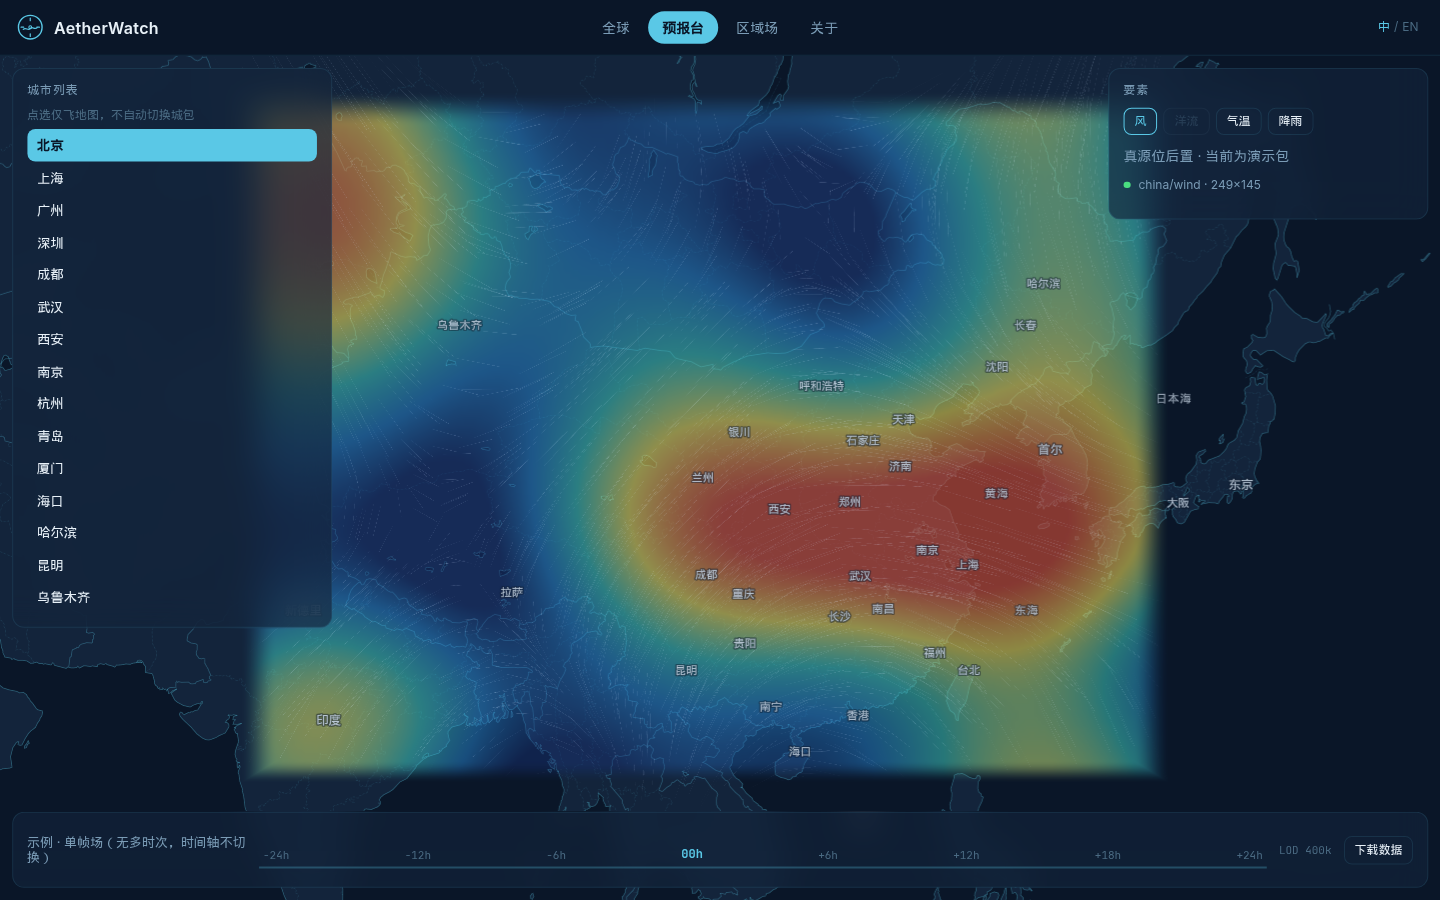
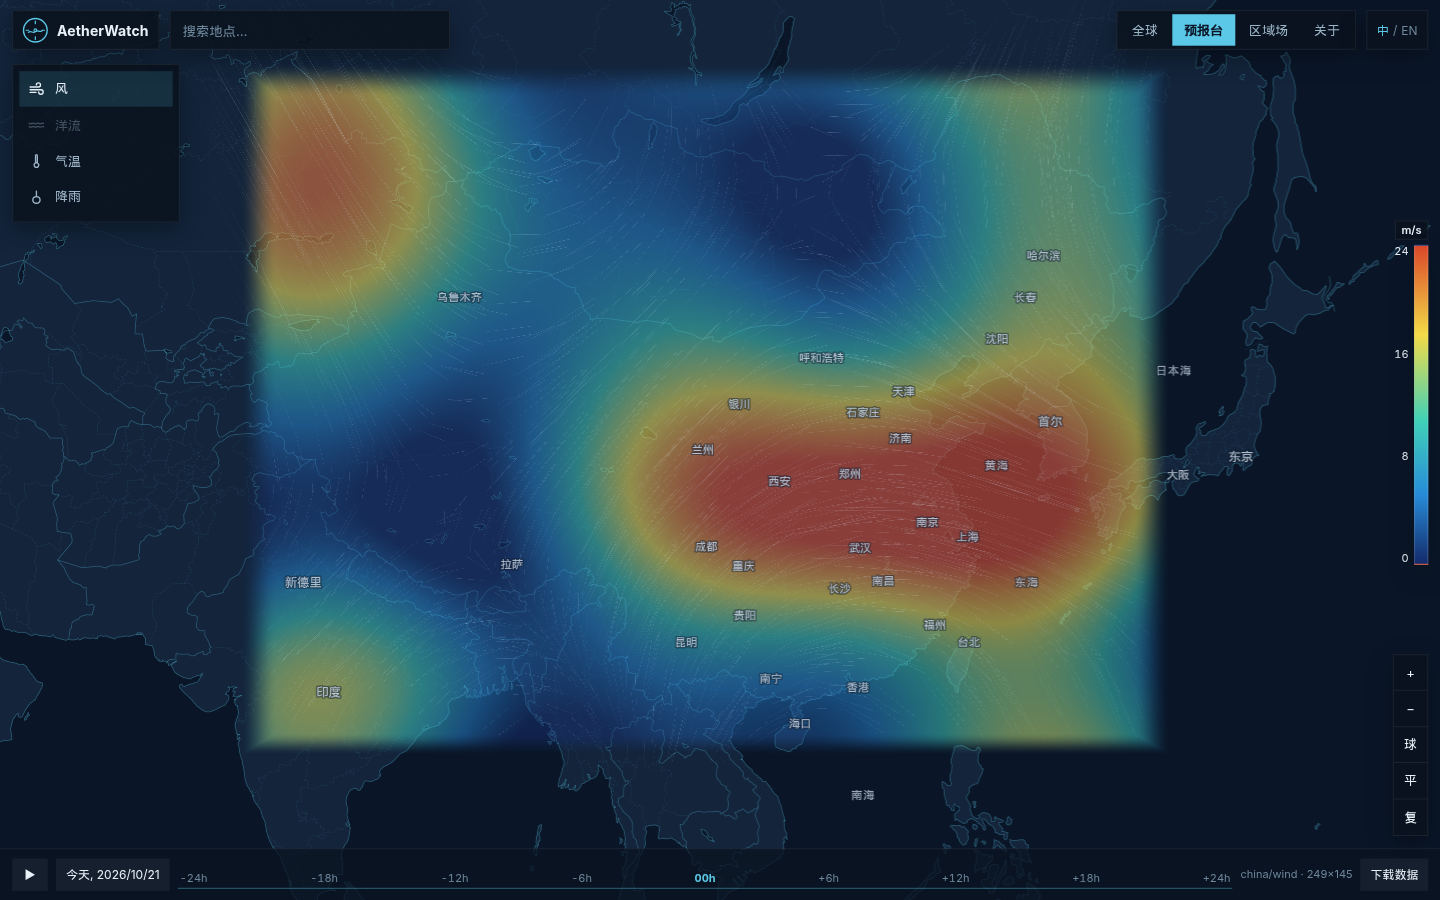
docs: recapture Ventusky chrome on /global /desk /regional
Move zoom tools off the color scale and show the map-first shell:
layer rail, vertical scale, search, hour strip, regional dual CTA.

diff --git a/apps/web/src/components/MapTools.vue b/apps/web/src/components/MapTools.vue
@@ -40,7 +40,8 @@ function reset() {
 <style scoped>
 .tools {
   position: absolute;
-  top: 64px;
+  top: auto;
+  bottom: 64px;
   right: 12px;
   z-index: 4;
   display: flex;
@@ -65,7 +66,6 @@ function reset() {
 }
 @media (max-width: 720px) {
   .tools {
-    top: auto;
     bottom: 120px;
   }
 }
